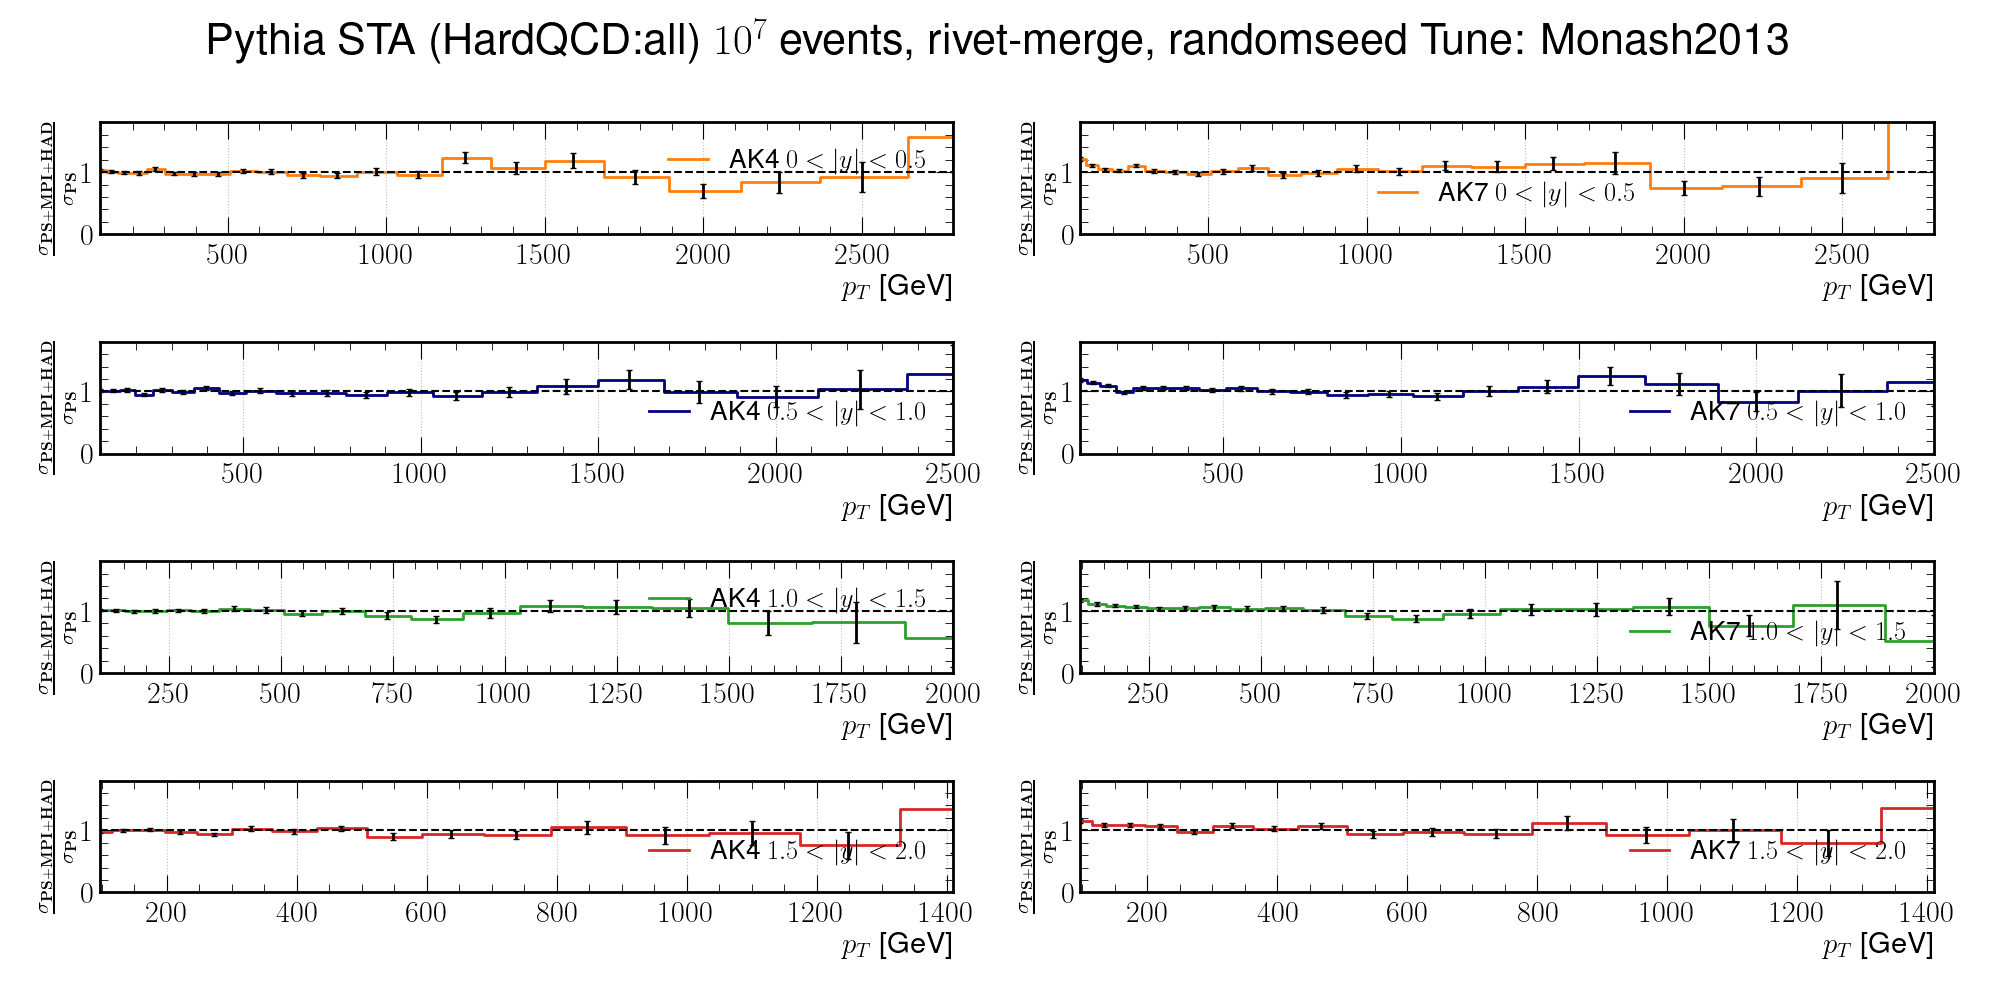
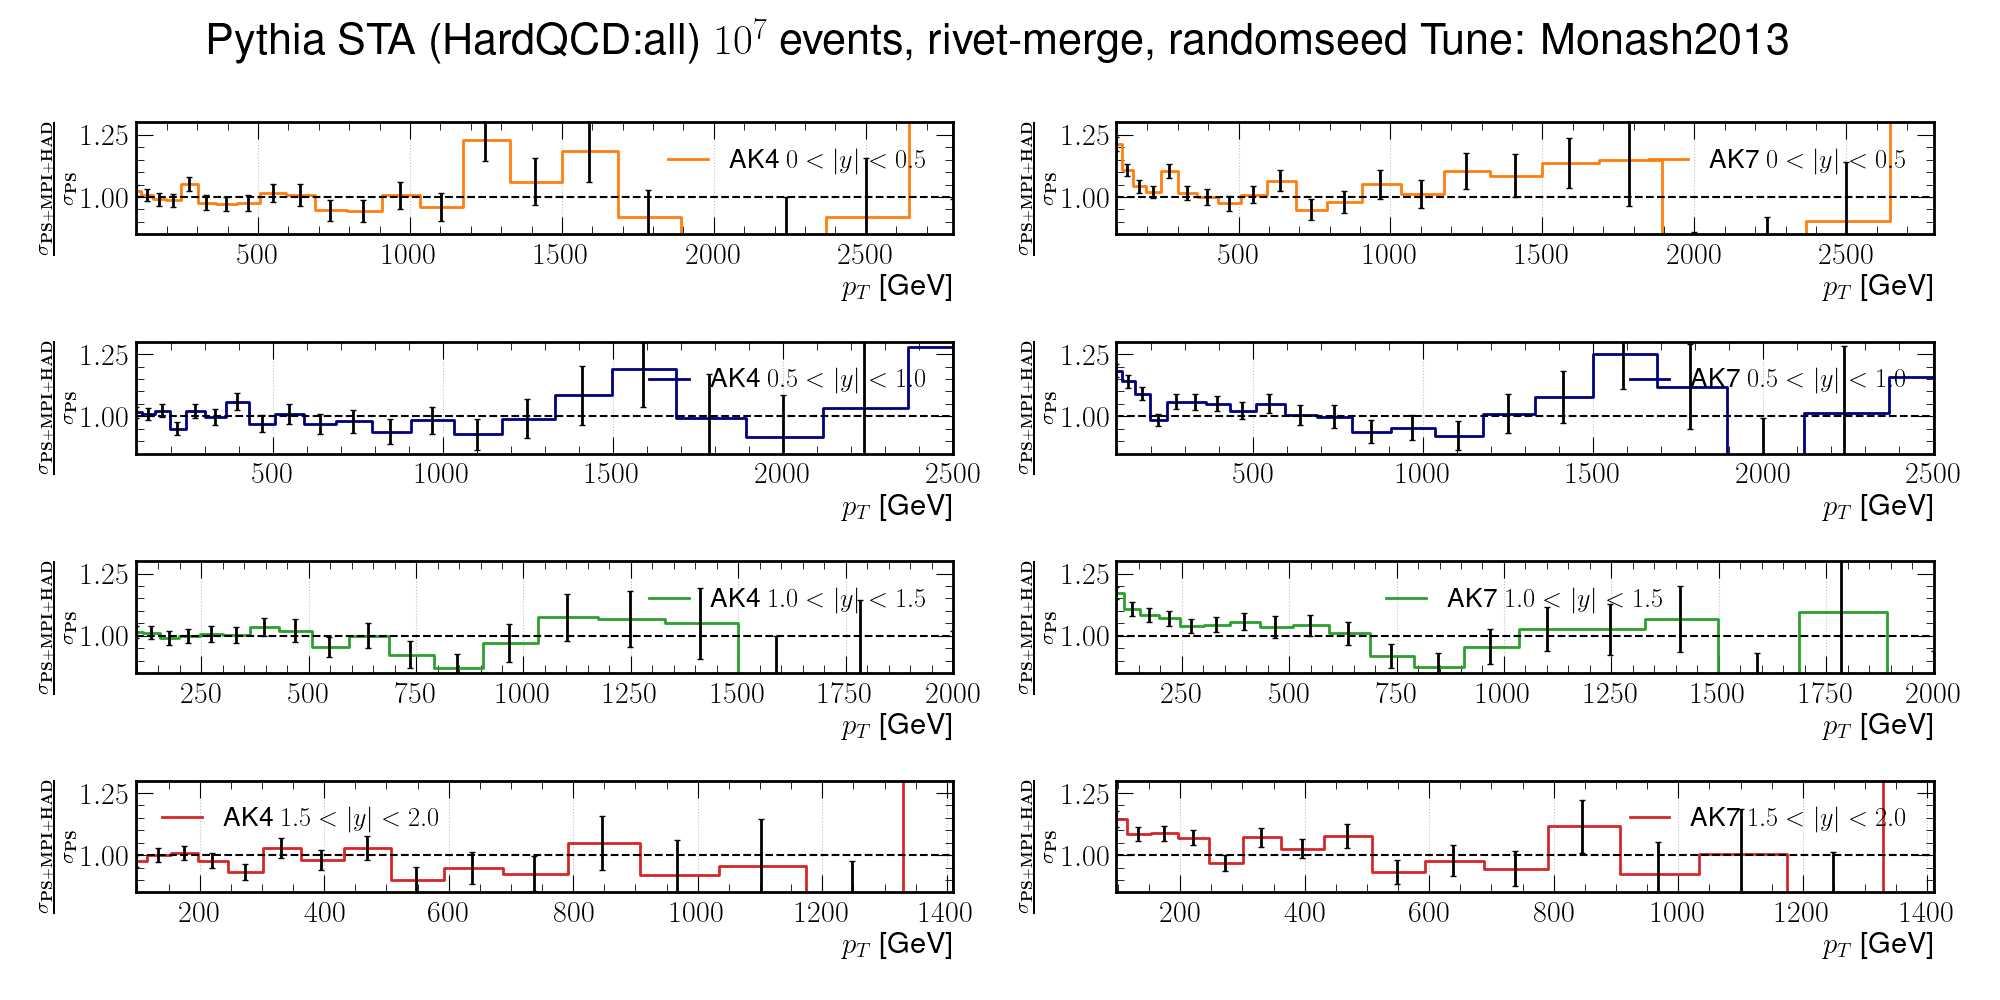
pic

diff --git a/rivet+pythia/PYTHIA_STANDALONE/parse_dat.py b/rivet+pythia/PYTHIA_STANDALONE/parse_dat.py
@@ -21,7 +21,7 @@ parser.add_argument('--Matrix', type=bool, required=False, default=False, help='
 args = parser.parse_args()
 # SLICE=args.slice
 
-RANGE=(0.,1.8)
+RANGE=(0.85,1.3)
 #ASSUMING EVERYTHING is in /RAW/CMS_2021_I1972986/  , for example /RAW/CMS_2021_I1972986/d23-x01-y01
 # TUNE='CUETP8M1-NNPDF2.3LO'
 TUNE='Monash2013'
